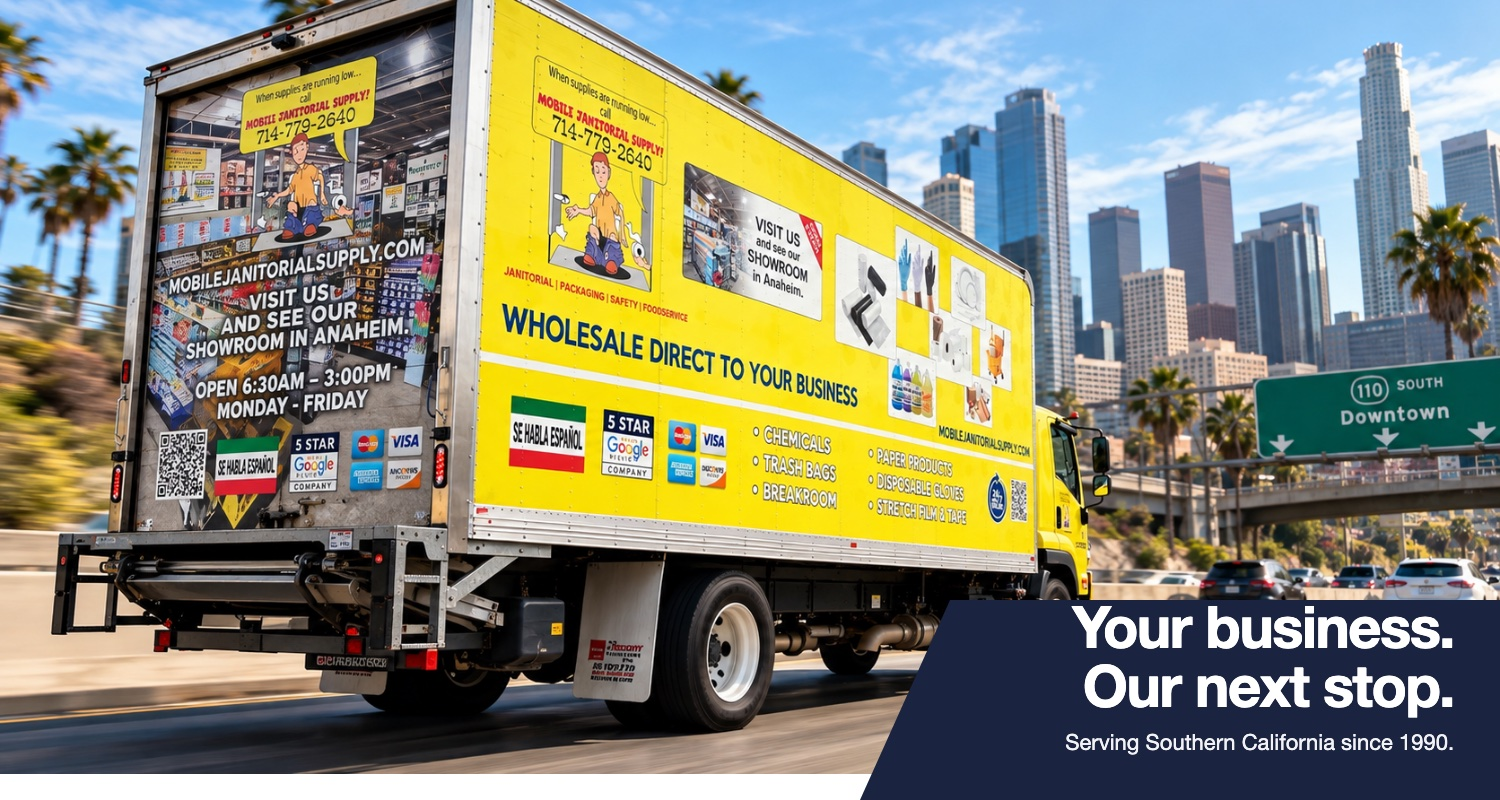
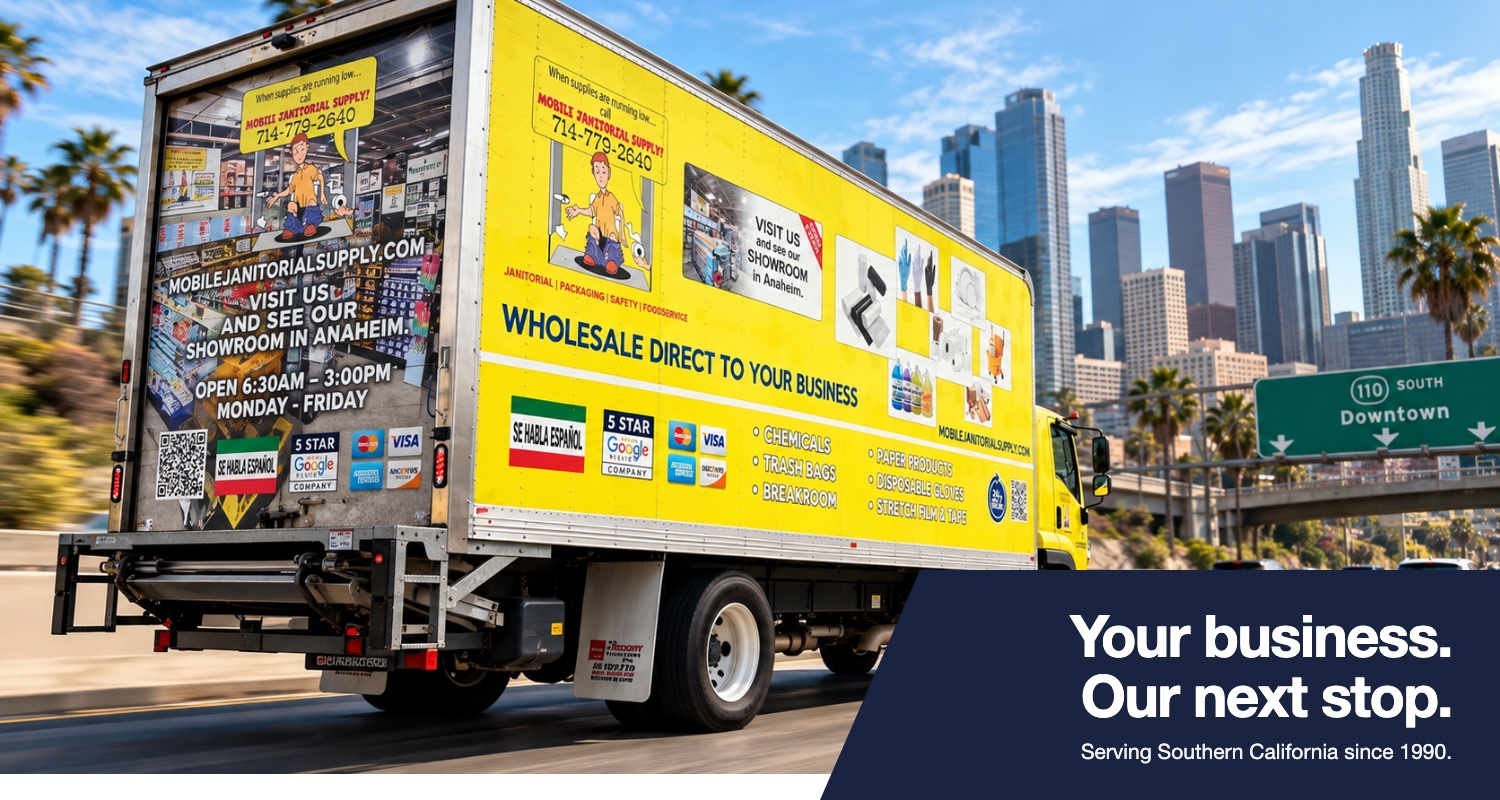
Welcome email: center the 'Your business. Our next stop.' panel text and lock the hero image to the panel edge

Changed region(s): [[0.552, 0.6875, 1.0, 1.0]]

diff --git a/src/lib/email.ts b/src/lib/email.ts
@@ -85,8 +85,8 @@ export async function sendWelcomeEmail(to: string, firstName: string, lastName: 
 </td></tr>
 
 <!-- TRUCK HERO -->
-<tr><td style="padding:0;line-height:0;">
-  <img src="${site}/images/email-welcome-truck.jpg" width="720" alt="Mobile Janitorial Supply delivery truck — Your business. Our next stop. Serving Southern California since 1990." style="display:block;width:100%;height:auto;border:0;">
+<tr><td style="padding:0;line-height:0;font-size:0;" bgcolor="#1a2340">
+  <img src="${site}/images/email-welcome-truck.jpg" width="720" height="384" alt="Mobile Janitorial Supply delivery truck — Your business. Our next stop. Serving Southern California since 1990." style="display:block;width:100%;height:auto;border:0;outline:none;">
 </td></tr>
 
 <!-- ACCOUNT CONFIRMED -->
